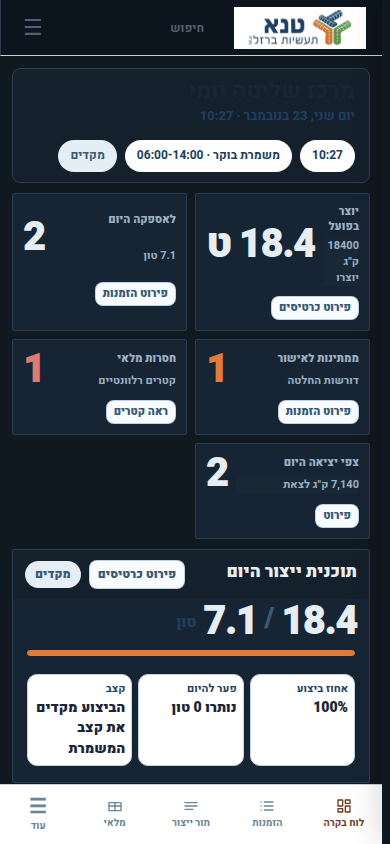
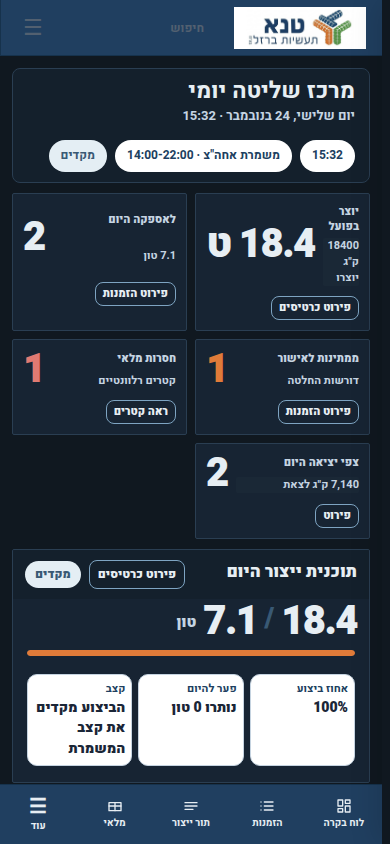
Fix Command and Blueprint contrast and check it with axe.
Dark screens use light text on navy, the new-order button is white on the logo orange, and the blueprint grid stays outside solid cards. The contrast test fails the suite if either theme misses WCAG AA.

diff --git a/public/theme-blueprint.css b/public/theme-blueprint.css
@@ -3,7 +3,7 @@ html[data-theme="blueprint"] {
   --bp-paper: #F7F5F0;
   --bp-ink: #1A2637;
   --bp-line: rgba(32, 63, 96, 0.28);
-  --bp-line-soft: rgba(32, 63, 96, 0.12);
+  --bp-line-soft: rgba(32, 63, 96, 0.06);
   --bp-orange: #A85C2B;
   --bp-mark: #E07B39;
   --bp-green: #44633C;
@@ -31,7 +31,7 @@ html[data-theme="blueprint"] .production-progress-main strong {
   color: var(--bp-ink) !important;
 }
 html[data-theme="blueprint"] :is(.kpi-card, .kpi-tile, .card, .panel, .orders-wrap, .table-card, .machine-card, [class*="-card"], .daily-header) {
-  background: rgba(255, 255, 255, 0.92) !important;
+  background: #fff !important;
   border: 1px solid var(--bp-line) !important;
   border-radius: 0 !important;
   box-shadow: none !important;
@@ -69,10 +69,20 @@ html[data-theme="blueprint"] :is(.btn-primary, .primary, .new-order-btn, .submit
   border: 1px solid var(--bp-ink) !important;
   border-radius: 0 !important;
 }
+html[data-theme="blueprint"] #ib-topnav .ib-link.ib-new-order,
+html[data-theme="blueprint"] #ib-topnav a.ib-new-order,
 html[data-theme="blueprint"] .ib-new-order {
-  background: var(--bp-ink) !important;
-  color: #F7F5F0 !important;
-  box-shadow: inset -3px 0 0 var(--bp-mark) !important;
+  background: #A85C2B !important;
+  color: #fff !important;
+  opacity: 1 !important;
+  box-shadow: none !important;
+}
+html[data-theme="blueprint"] #ib-topnav .ib-link.ib-new-order span,
+html[data-theme="blueprint"] #ib-topnav .ib-link.ib-new-order .ib-mark,
+html[data-theme="blueprint"] .ib-new-order span,
+html[data-theme="blueprint"] .ib-new-order .ib-mark {
+  color: #fff !important;
+  opacity: 1 !important;
 }
 html[data-theme="blueprint"] :is(button, .btn, .btn-sm, .filter-btn, .tab-btn) {
   border-radius: 0 !important;
@@ -157,14 +167,14 @@ html[data-theme="blueprint"] body[data-page="new"] :is(
   .inspector-edit-shell, .summary-bar, #liveInventoryPanel, .wizard-summary-block,
   .order-notes, .notes-card
 ) {
-  background: rgba(255,255,255,.9) !important;
+  background: #fff !important;
   color: var(--bp-ink) !important;
   border: 1px solid var(--bp-line) !important;
   border-radius: 0 !important;
   box-shadow: none !important;
 }
 html[data-theme="blueprint"] body[data-page="new"] .order-lines-body > .order-line-row:nth-of-type(even) {
-  background: rgba(247,245,240,.96) !important;
+  background: #F7F5F0 !important;
 }
 html[data-theme="blueprint"] body[data-page="new"] :is(.line-element, .line-qty, .line-diameter-select) {
   background: transparent !important;
@@ -182,7 +192,7 @@ html[data-theme="blueprint"] body[data-page="new"] :is(.primary-add-shape, butto
 }
 
 html[data-theme="blueprint"] :is(.shift-bar, .shift-stat, .queue-filters, .machine-col, .machine-col-header, .queue-item, .modal) {
-  background: rgba(255,255,255,.9) !important;
+  background: #fff !important;
   color: var(--bp-ink) !important;
   border: 1px solid var(--bp-line) !important;
   border-radius: 0 !important;
@@ -190,7 +200,7 @@ html[data-theme="blueprint"] :is(.shift-bar, .shift-stat, .queue-filters, .machi
 }
 html[data-theme="blueprint"] .machine-col-header { background: transparent !important; }
 html[data-theme="blueprint"] .queue-item.active-item {
-  background: rgba(255,255,255,.94) !important;
+  background: #fff !important;
   border-color: var(--bp-ink) !important;
   box-shadow: inset 0 -2px 0 var(--bp-mark) !important;
 }
@@ -231,7 +241,7 @@ html[data-theme="blueprint"] #sePageEdit .se-data-panel,
 html[data-theme="blueprint"] #seModal .se-data-panel-head,
 html[data-theme="blueprint"] #seModal .se-table-wrap,
 html[data-theme="blueprint"] #seModal .se-foot {
-  background: rgba(255,255,255,.88) !important;
+  background: #fff !important;
   border-color: var(--bp-line) !important;
   color: var(--bp-ink) !important;
 }
@@ -254,22 +264,48 @@ html[data-theme="blueprint"] #seModal .se-svg-wrap {
 html[data-theme="blueprint"] #seModal .se-data-panel-head:before { content: none !important; }
 html[data-theme="blueprint"] #seModal .se-stat-value { font-variant-numeric: tabular-nums; color: var(--bp-ink) !important; }
 
-html[data-theme="blueprint"] body[data-page=orders] .orders-table tr[class*="row-"] { background: rgba(255,255,255,.92) !important; }
+html[data-theme="blueprint"] body[data-page=orders] .orders-table tr[class*="row-"] { background: #fff !important; }
 html[data-theme="blueprint"] .orders-table .order-row > td {
-  background: rgba(255,255,255,.94) !important;
+  background: #fff !important;
   color: var(--bp-ink) !important;
 }
 html[data-theme="blueprint"] .orders-table .order-row.row-production > td:first-child { box-shadow: inset -3px 0 0 var(--bp-mark); }
 html[data-theme="blueprint"] .orders-table .order-row.row-approved > td:first-child { box-shadow: inset -3px 0 0 var(--bp-blue); }
 html[data-theme="blueprint"] .orders-table .order-row.row-waiting > td:first-child { box-shadow: inset -3px 0 0 #8E2F2A; }
 html[data-theme="blueprint"] .orders-table .order-row[data-production-percent] {
-  background: linear-gradient(to left, rgba(224,123,57,.45) 0 var(--production-progress), rgba(255,255,255,.94) var(--production-progress) 100%) !important;
+  background: linear-gradient(to left, rgba(224,123,57,.45) 0 var(--production-progress), #fff var(--production-progress) 100%) !important;
 }
 html[data-theme="blueprint"] .orders-table .order-row[data-production-percent] > td { background: transparent !important; }
 html[data-theme="blueprint"] body[data-page="new"] :is(.stat, .notes-section, .section, .order-draft-notice) {
-  background: rgba(255,255,255,.9) !important;
+  background: #fff !important;
   border: 1px solid var(--bp-line) !important;
   border-radius: 0 !important;
   box-shadow: none !important;
   color: var(--bp-ink) !important;
+}
+html[data-theme="blueprint"] #ib-topnav :is(#ib-search-btn, .ib-nav-toggle, .ib-group-label) {
+  color: #1A2637 !important;
+}
+html[data-theme="blueprint"] #ib-topnav .ib-link.ib-new-order,
+html[data-theme="blueprint"] #ib-topnav a.ib-new-order,
+html[data-theme="blueprint"] .ib-new-order,
+html[data-theme="blueprint"] #ib-topnav .ib-new-order :is(span, .ib-mark, .ib-link-label) {
+  background: #A85C2B !important;
+  color: #fff !important;
+  opacity: 1 !important;
+}
+html[data-theme="blueprint"] #ib-topnav .ib-new-order :is(span, .ib-mark, .ib-link-label) {
+  background: transparent !important;
+}
+html[data-theme="blueprint"] :is(.shift-stat .label, .machine-col-count, #queueMachineCount, .item-detail) {
+  color: #31465C !important;
+}
+html[data-theme="blueprint"] .item-status-badge {
+  color: #1A2637 !important;
+  background: #E7EEF3 !important;
+}
+html[data-theme="blueprint"] button[data-lang="he"] {
+  background: #A85C2B !important;
+  color: #fff !important;
+  opacity: 1 !important;
 }

diff --git a/public/theme-command.css b/public/theme-command.css
@@ -308,3 +308,136 @@ html[data-theme="command"] .orders-table .order-row[data-production-percent] > t
   background: transparent !important;
   color: var(--cmd-ink) !important;
 }
+
+/* Contrast: theme.css locks h1 and several labels to the dark ink. */
+html[data-theme="command"] :is(h1, h2, h3, .page-title, .section-title, .d-title, .daily-title h1, #dashboardTitle) {
+  color: #E7EEF3 !important;
+}
+html[data-theme="command"] :is(.daily-title span, #dayHeaderText, .section-head p, .kpi-label, .kpi-sub, .action-sub, .compact-row span, .muted-state) {
+  color: #C5D4E2 !important;
+}
+html[data-theme="command"] .action-item {
+  background: #101820 !important;
+  color: #E7EEF3 !important;
+  border: 1px solid var(--cmd-line) !important;
+  border-radius: 2px !important;
+  box-shadow: none !important;
+}
+html[data-theme="command"] .action-title,
+html[data-theme="command"] .compact-row,
+html[data-theme="command"] .compact-row strong {
+  color: #E7EEF3 !important;
+}
+html[data-theme="command"] .action-link {
+  background: transparent !important;
+  color: #F6C7A4 !important;
+  border-color: #E07B39 !important;
+}
+html[data-theme="command"] body[data-page="dashboard"] details.panel > summary {
+  color: #E7EEF3 !important;
+  background: #172433 !important;
+}
+html[data-theme="command"] :is(.dashboard-detail-btn, .inline-detail-btn) {
+  color: #E7EEF3 !important;
+  background: transparent !important;
+  border-color: #7EA4C2 !important;
+}
+html[data-theme="command"] :is(#ib-topnav, #ib-drawer, #ib-bottom) {
+  background: #203F60 !important;
+  color: #E7EEF3 !important;
+  border-color: #16324C !important;
+}
+html[data-theme="command"] #ib-topnav :is(.ib-link, .ib-nav-toggle, .ib-nav-caret, .ib-group-label),
+html[data-theme="command"] #ib-drawer :is(.ib-dl, .ib-group-label),
+html[data-theme="command"] #ib-bottom .ib-bn {
+  color: #E7EEF3 !important;
+}
+html[data-theme="command"] #ib-topnav .ib-link.ib-active {
+  color: #fff !important;
+  background: transparent !important;
+  box-shadow: inset -3px 0 0 #E07B39 !important;
+}
+html[data-theme="command"] :is(#ib-logo, #ib-drawer-head) {
+  background: #fff !important;
+}
+html[data-theme="command"] :is(#ib-logo img, #ib-drawer-logo) {
+  background: #fff !important;
+}
+html[data-theme="command"] #ib-topnav .ib-link.ib-new-order,
+html[data-theme="command"] .ib-new-order {
+  background: #E07B39 !important;
+  color: #1A120C !important;
+  opacity: 1 !important;
+}
+html[data-theme="command"] #ib-topnav .ib-link.ib-new-order :is(span, .ib-mark, .ib-link-label),
+html[data-theme="command"] .ib-new-order :is(span, .ib-mark, .ib-link-label) {
+  color: #1A120C !important;
+  opacity: 1 !important;
+}
+html[data-theme="command"] #ordersPageTitle,
+html[data-theme="command"] .production-progress-main small {
+  color: #E7EEF3 !important;
+}
+html[data-theme="command"] .production-progress-main small { color: #C5D4E2 !important; }
+html[data-theme="command"] :is(.order-num, .weight-val, .line-add-btn, .item-order) {
+  color: #F6C7A4 !important;
+}
+html[data-theme="command"] .data-table span { color: #C5D4E2 !important; }
+html[data-theme="command"] .s-risk {
+  background: #3A2222 !important;
+  color: #F6D0CD !important;
+}
+html[data-theme="command"] .compact-edit-pill {
+  background: #E07B39 !important;
+  color: #1A120C !important;
+  border-color: #E07B39 !important;
+}
+html[data-theme="command"] .inspector-card h3,
+html[data-theme="command"] .card-title,
+html[data-theme="command"] .tab-btn,
+html[data-theme="command"] .inventory-plan-options summary,
+html[data-theme="command"] .material-shape,
+html[data-theme="command"] label {
+  color: #E7EEF3 !important;
+}
+html[data-theme="command"] .inspector-card p,
+html[data-theme="command"] .inventory-caption {
+  color: #C5D4E2 !important;
+}
+html[data-theme="command"] .inventory-shortage { color: #F6D0CD !important; }
+html[data-theme="command"] :is(.shift-stat .label, .machine-col-count, .queue-filters label, .queue-view-controls label, #queueMachineCount, .page-header div) {
+  color: #C5D4E2 !important;
+}
+html[data-theme="command"] .item-detail,
+html[data-theme="command"] .item-detail strong {
+  background: #101820 !important;
+  color: #E7EEF3 !important;
+}
+html[data-theme="command"] .item-status-badge {
+  background: #24384A !important;
+  color: #E7EEF3 !important;
+}
+html[data-theme="command"] .badge-urgent {
+  background: #3A2A1C !important;
+  color: #F6C7A4 !important;
+}
+html[data-theme="command"] button[data-lang="he"] {
+  background: #A85C2B !important;
+  color: #fff !important;
+  opacity: 1 !important;
+}
+html[data-theme="command"] body[data-page="new"] .notes-section .compact-edit-pill {
+  background: #E07B39 !important;
+  color: #1A120C !important;
+  border-color: #E07B39 !important;
+}
+html[data-theme="command"] body[data-page="inventory"] .tab-btn.active {
+  background: #E07B39 !important;
+  color: #1A120C !important;
+  border-color: #E07B39 !important;
+}
+html[data-theme="command"] body[data-page="inventory"] .card-header,
+html[data-theme="command"] body[data-page="inventory"] .card-header .card-title {
+  background: #172433 !important;
+  color: #E7EEF3 !important;
+}

diff --git a/test/theme-contrast.test.js b/test/theme-contrast.test.js
@@ -1,0 +1,108 @@
+'use strict';
+
+/**
+ * WCAG AA color contrast for the two visual themes.
+ * Serves the local design fixture only. Does not open a database
+ * and is not loaded by server.js.
+ */
+
+const test = require('node:test');
+const assert = require('node:assert/strict');
+const http = require('node:http');
+const fs = require('node:fs');
+const path = require('node:path');
+const { chromium } = require('playwright-core');
+const { AxeBuilder } = require('@axe-core/playwright');
+const { demoBody } = require('../scripts/local-design-demo.js');
+
+const ROOT = path.join(__dirname, '..', 'public');
+const MODULES = {
+  '/shapeSnapshot.js': path.join(__dirname, '..', 'services', 'shapeSnapshot.js'),
+  '/steelRebarShapes.js': path.join(__dirname, '..', 'modules', 'steel-rebar', 'shapes.js'),
+  '/shapeCommercial.js': path.join(__dirname, '..', 'modules', 'steel-rebar', 'shape-commercial.js'),
+  '/shapeRecognition.js': path.join(__dirname, '..', 'modules', 'steel-rebar', 'shape-recognition.js'),
+};
+const PAGES = [
+  ['dashboard', '/dashboard.html', '.action-item, .muted-state'],
+  ['orders', '/orders.html', '.order-row'],
+  ['new-order', '/index.html', 'h1'],
+  ['queue', '/production-queue.html', '.queue-item, .empty-state'],
+  ['inventory', '/inventory.html', 'h1, .page-title, main'],
+];
+const THEMES = ['command', 'blueprint'];
+
+function contentType(file) {
+  return {
+    '.html': 'text/html',
+    '.js': 'text/javascript',
+    '.css': 'text/css',
+    '.png': 'image/png',
+    '.jpg': 'image/jpeg',
+    '.svg': 'image/svg+xml',
+    '.woff2': 'font/woff2',
+    '.json': 'application/json',
+  }[path.extname(file)] || 'application/octet-stream';
+}
+
+function startServer() {
+  const server = http.createServer((req, res) => {
+    const raw = req.url || '/';
+    const url = decodeURIComponent(raw.split('?')[0]);
+    if (url.startsWith('/api/')) {
+      res.writeHead(200, { 'content-type': 'application/json' });
+      res.end(JSON.stringify(demoBody(raw)));
+      return;
+    }
+    const file = MODULES[url] || path.join(ROOT, url === '/' ? 'index.html' : url);
+    const allowed = file.startsWith(ROOT) || Object.values(MODULES).includes(file);
+    if (!allowed || !fs.existsSync(file) || fs.statSync(file).isDirectory()) {
+      res.writeHead(404);
+      res.end();
+      return;
+    }
+    res.writeHead(200, { 'content-type': contentType(file) });
+    fs.createReadStream(file).pipe(res);
+  });
+  return new Promise(resolve => {
+    server.listen(0, '127.0.0.1', () => resolve(server));
+  });
+}
+
+function violationText(theme, name, results) {
+  return results.violations.flatMap(violation => (violation.nodes || []).map(node => {
+    const data = (node.any || []).map(check => check.data && (check.data.contrastRatio || check.message)).filter(Boolean).join(' ');
+    return `${theme} ${name}: ${node.target.join(' ')} ${data}`.trim();
+  })).join('\n');
+}
+
+test('theme contrast meets WCAG AA on the main screens', { timeout: 180000 }, async () => {
+  const server = await startServer();
+  const { port } = server.address();
+  const browser = await chromium.launch({
+    executablePath: '/usr/local/bin/google-chrome',
+    headless: true,
+    args: ['--no-sandbox', '--disable-dev-shm-usage'],
+  });
+  const failures = [];
+  try {
+    const context = await browser.newContext({ viewport: { width: 1440, height: 900 } });
+    await context.addInitScript(() => {
+      localStorage.setItem('ib_access_token', 'design-preview');
+      sessionStorage.setItem('ib_access_token', 'design-preview');
+    });
+    const page = await context.newPage();
+    for (const theme of THEMES) {
+      for (const [name, href, ready] of PAGES) {
+        await page.goto(`http://127.0.0.1:${port}${href}?theme=${theme}`, { waitUntil: 'networkidle', timeout: 30000 });
+        await page.waitForSelector(ready, { timeout: 8000 }).catch(() => {});
+        await page.waitForTimeout(400);
+        const results = await new AxeBuilder({ page }).withRules(['color-contrast']).analyze();
+        if (results.violations.length) failures.push(violationText(theme, name, results));
+      }
+    }
+  } finally {
+    await browser.close();
+    await new Promise(resolve => server.close(resolve));
+  }
+  assert.equal(failures.length, 0, failures.join('\n\n'));
+});

diff --git a/scripts/local-design-demo.js b/scripts/local-design-demo.js
@@ -4,7 +4,7 @@
   This file is not required by server.js and does not open or write a database.
   Do not import it from production code.
 */
-const TODAY = '2026-11-23';
+const TODAY = '2026-11-24';
 const customers = [
   { id: 1, name: 'אקרשטיין', phone: '03-6102200', email: 'orders@ekerstein.co.il', address: 'ראשון לציון', contact_name: 'יוסי אקרשטיין', order_count: 2, total_weight_sum: 6120, balance: 18400, credit_limit: 250000 },
   { id: 2, name: 'דניה סיבוס', phone: '04-8501000', email: 'site@danya.co.il', address: 'חיפה', contact_name: 'מיכל דן', order_count: 1, total_weight_sum: 2860, balance: 0, credit_limit: 180000 },
